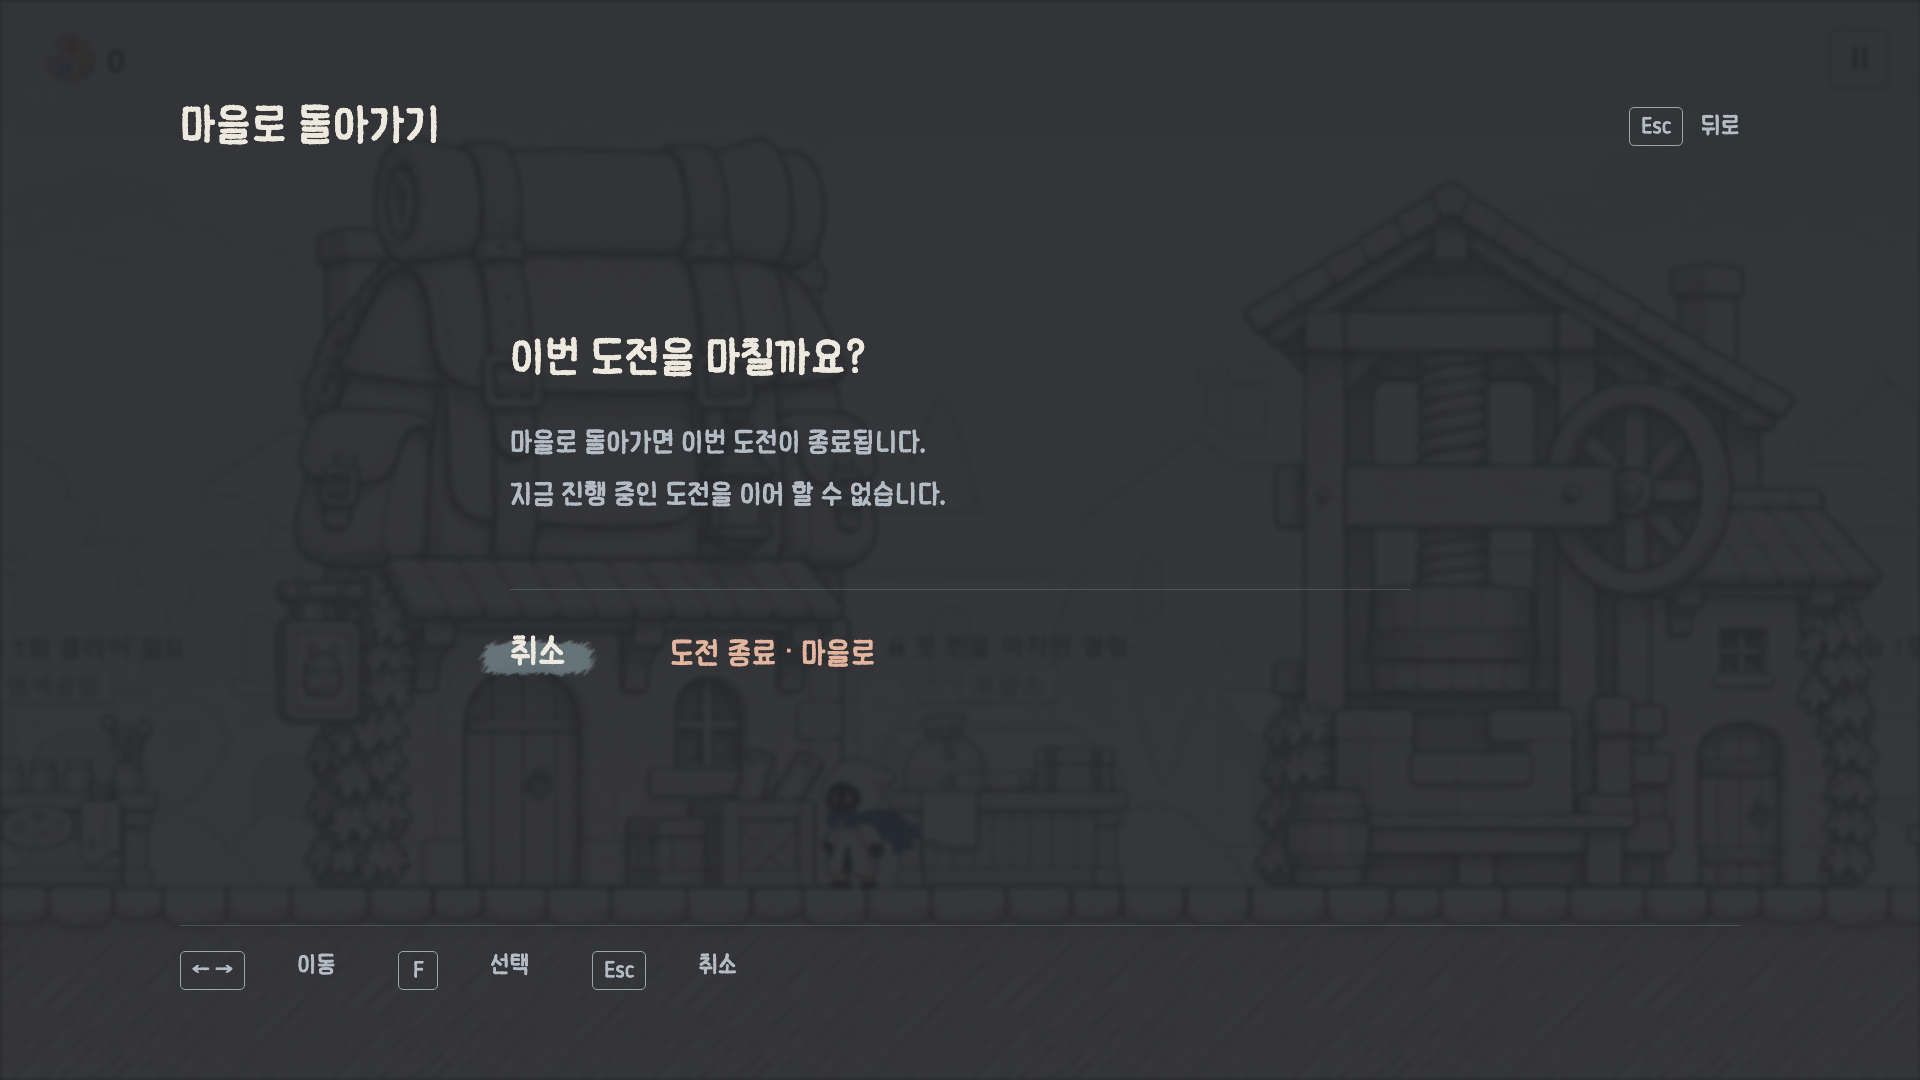
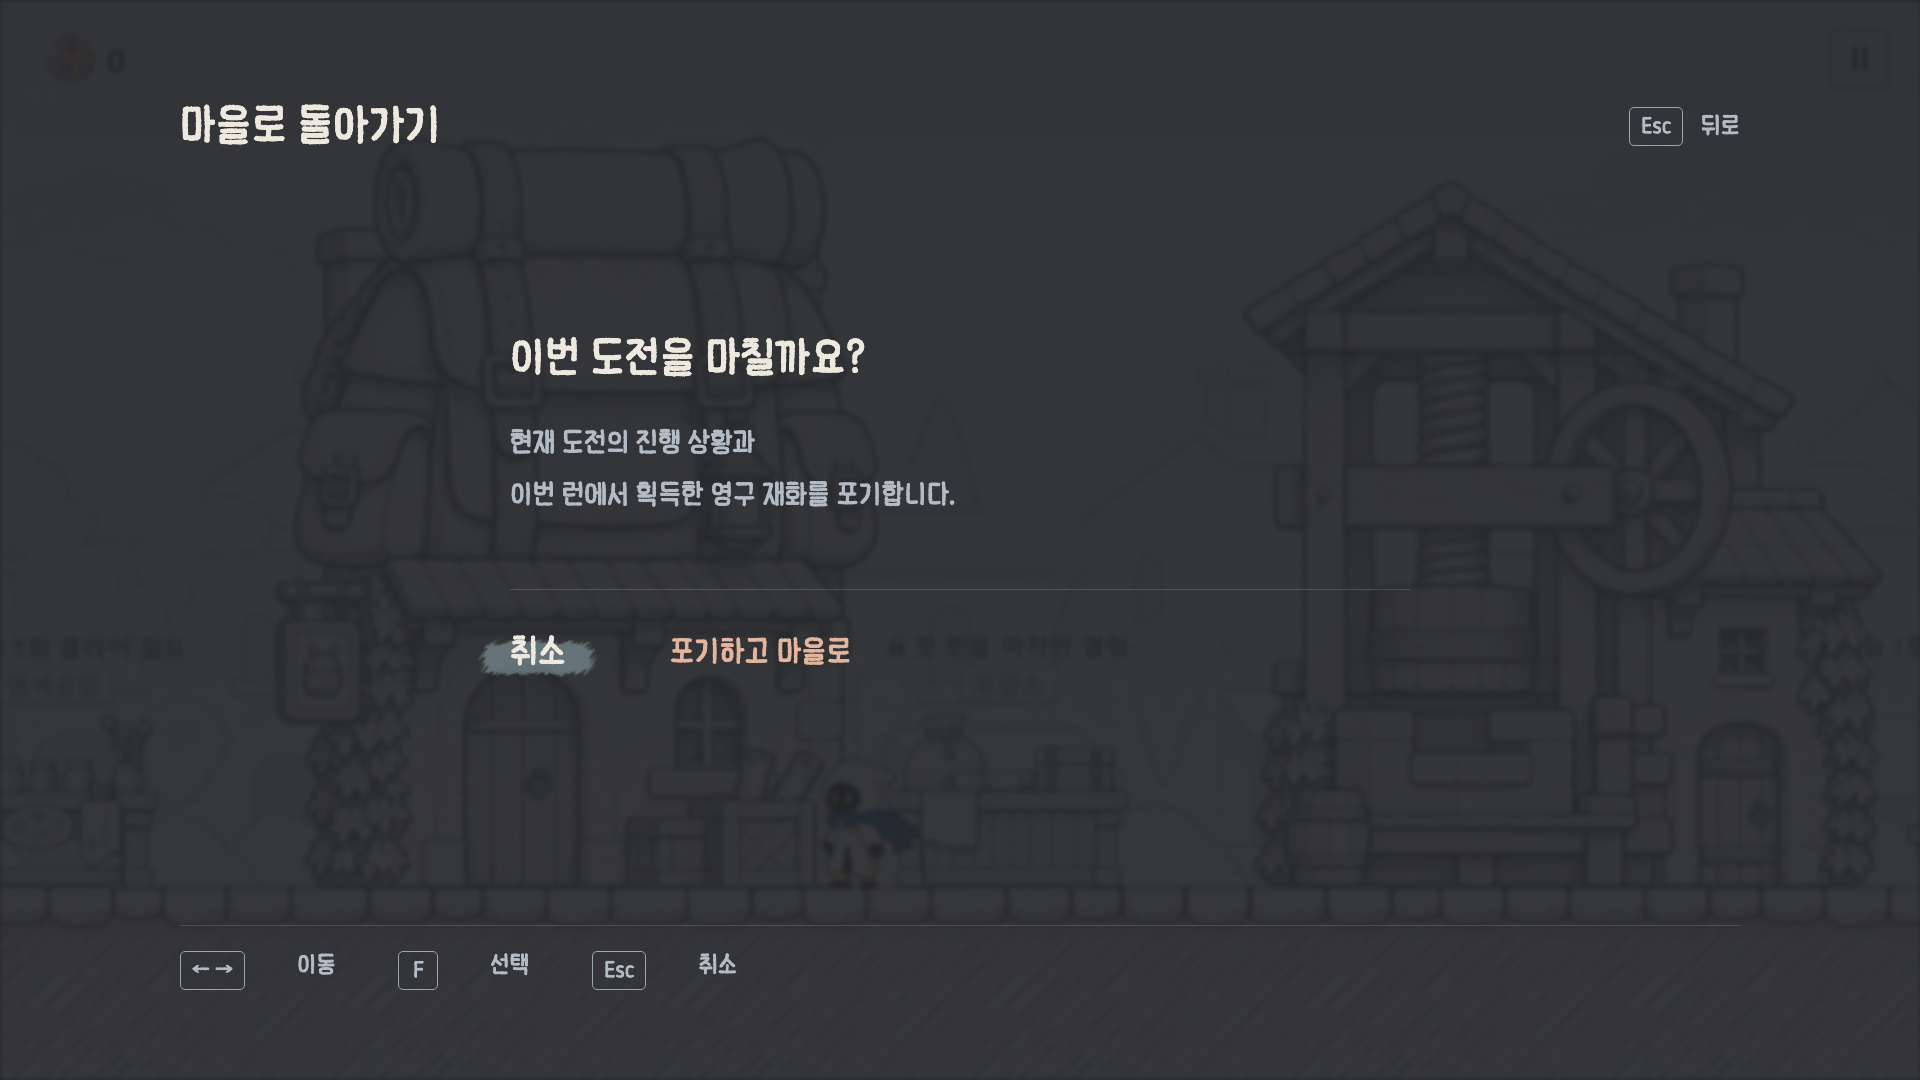
design: clarify forfeiture of run-earned permanent currency on retreat

Changed region(s): [[0.25, 0.3972, 0.5, 0.4889], [0.3438, 0.5806, 0.4688, 0.6417]]

diff --git a/ui/work/theme/ink-pixel-v1/pause-menu-v1/index.html b/ui/work/theme/ink-pixel-v1/pause-menu-v1/index.html
@@ -7,7 +7,7 @@ function key(s){return '<kbd>'+s+'</kbd>'}function choice(label,action,extra='')
 function render(){main.innerHTML='<header><h1>'+({pause:'일시정지',help:'조작 안내',confirm:'마을로 돌아가기',title:'타이틀로 돌아가기',restart:'다시 시작'}[view]||'일시정지')+'</h1><span>'+key('Esc')+' '+(view==='pause'?'계속하기':'뒤로')+'</span></header>';foot.innerHTML=key('↑ ↓')+'이동　 '+key('F')+'선택';
 if(view==='pause'){main.innerHTML+=`<section class="menu"><div class="choices">${choice('계속하기','resume')}${choice('조작 안내','help')}${context==='village'?choice('다시 시작','restart'):''}${choice(context==='village'?'타이틀로':'마을로 돌아가기',context==='village'?'title':'confirm')}</div></section>`}
 if(view==='help'){const row=(name,keys)=>`<div class="line"><span>${name}</span><span class="keys">${keys.map(key).join('')}</span></div>`;main.innerHTML+=`<div class="guide"><section><h2>이동</h2>${row('이동',['←','→'])}${row('점프 · 2단 점프',['Space'])}${row('대시',['Shift'])}${row('발판 내려가기',['↓','Space'])}</section><section><h2>전투</h2>${row('무기 1 · 기본 공격',['Q'])}${row('무기 1 · 스킬',['E'])}${row('무기 2 · 기본 공격',['W'])}${row('무기 2 · 스킬',['R'])}</section><section><h2>탐험</h2>${row('상호작용',['F'])}${row('가방 · 장비',['I'])}${row('전체 지도',['M'])}${row('포탈 설치',['C','V'])}<p class="note">포탈 앞에서 F로 이동</p></section></div>`;foot.innerHTML=key('Esc')+'일시정지로 돌아가기';}
-if(view==='confirm'||view==='title'){let village=view==='confirm';main.innerHTML+=`<section class="confirm"><h2>${village?'이번 도전을 마칠까요?':'타이틀로 돌아갈까요?'}</h2><p>${village?'마을로 돌아가면 이번 도전이 종료됩니다.<br>지금 진행 중인 도전을 이어 할 수 없습니다.':'현재 마을을 나가 타이틀 화면으로 이동합니다.'}</p><div class="choices">${choice('취소','pause')}${choice(village?'도전 종료 · 마을로':'타이틀로','leave','danger')}</div></section>`;foot.innerHTML=key('← →')+'이동　 '+key('F')+'선택　 '+key('Esc')+'취소';}
+if(view==='confirm'||view==='title'){let village=view==='confirm';main.innerHTML+=`<section class="confirm"><h2>${village?'이번 도전을 마칠까요?':'타이틀로 돌아갈까요?'}</h2><p>${village?'현재 도전의 진행 상황과<br>이번 런에서 획득한 영구 재화를 포기합니다.':'현재 마을을 나가 타이틀 화면으로 이동합니다.'}</p><div class="choices">${choice('취소','pause')}${choice(village?'포기하고 마을로':'타이틀로','leave','danger')}</div></section>`;foot.innerHTML=key('← →')+'이동　 '+key('F')+'선택　 '+key('Esc')+'취소';}
 if(view==='restart'){main.innerHTML+=`<section class="confirm"><h2>출발 구성을 다시 만들까요?</h2><p>모든 도면의 팔레트 색을 새로 뽑습니다.<br>도면 선택과 다시 뽑기 횟수가 초기화됩니다.</p><p style="margin-top:20px;color:#eee9df">영구 해금과 보유 재화는 유지됩니다.</p><div class="choices">${choice('취소','pause')}${choice('다시 시작','restartNow','danger')}</div></section>`;foot.innerHTML=key('← →')+'이동　 '+key('F')+'선택　 '+key('Esc')+'취소';}
 if(view==='resume'||view==='leave'){main.innerHTML='<div class="demo">'+(view==='resume'?'게임 화면으로 복귀':'화면 전환 확인')+'<small>디자인 검토용 · 실제 게임에는 연결되지 않았습니다.</small><button class="choice" data-action="pause">일시정지 시안 다시 보기</button></div>';foot.innerHTML='';}
 selected=0;document.querySelectorAll('.choice').forEach((b,i)=>{b.onmouseenter=()=>select(i);b.onfocus=()=>select(i);b.onclick=()=>{if(b.dataset.action==='restartNow'){location.href='../departure-v1/index.html?restart=1&'+(params.get('slots')==='5'?'slots=5':'')+(params.get('reroll')==='1'?'&reroll=1':'');return}view=b.dataset.action;render()}});select(0)}

diff --git a/ui/work/theme/ink-pixel-v1/pause-menu-v1/README.md b/ui/work/theme/ink-pixel-v1/pause-menu-v1/README.md
@@ -5,7 +5,7 @@
 - 전투 일시정지: 계속하기 / 조작 안내 / 마을로 돌아가기
 - 마을 일시정지: 계속하기 / 조작 안내 / 타이틀로
 - 조작 안내: 키보드 기본값 검토용. 실제 적용 시 입력 바인딩·사용 장치에서 표시값을 받아야 함.
-- 마을 복귀 확인: 취소 기본 선택. 도전 종료 경고. 개별 재화·아이템 보존 규칙은 이 시안에서 확정하지 않음.
+- 마을 복귀 확인: 취소 기본 선택. 도전 종료 경고. 현재 진행 상황과 이번 런에서 획득한 영구 재화를 포기함(사용자 확정).
 - 추가 동작: 타이틀 이동 확인, 메뉴 왕복, 방향키/F/Enter/Esc, 마우스.
 
 배경은 기존 승인된 마을 그림을 네 화면에 동일하게 사용한 비교용 배경이며, 전투 실제 캡처로 주장하지 않는다. 실제 적용에서는 일시정지 직전 화면을 유지한다.
@@ -14,3 +14,6 @@
 
 ## 마을 다시 시작 — 사용자 확정
 마을 메뉴에서 타이틀로 위에 다시 시작을 제공. 취소 기본값의 확인 후 새 출발 구성을 생성한다. 모든 도면 팔레트 색·도면 선택·해금 기준 리롤 횟수 초기화, 영구 해금/보유 재화 유지. 전투 메뉴에는 추가하지 않는다. HTML은 출발 시안으로 연결하며 실제 프로필/재화를 수정하지 않는다. 브라우저 키 입력으로 확인 진입·취소·새 출발 연결·5칸/무색 유지·리롤 2회 복구를 검증했다.
+
+## 런 중 자발적 마을 복귀 — 사용자 확정
+현재 도전 진행 상황과 이번 런에서 획득한 영구 재화를 포기한다. 기존 보유분 전체 삭제로 표현하지 않는다. 마을의 다시 시작, 사망·정상 클리어 정산과 별도 규칙이다. 확인창은 취소 기본 선택과 「포기하고 마을로」를 사용한다. 실제 게임의 즉시 지급/정산 처리 변경은 Unity 담당 구현 작업이며 이 HTML은 재화를 변경하지 않는다.
